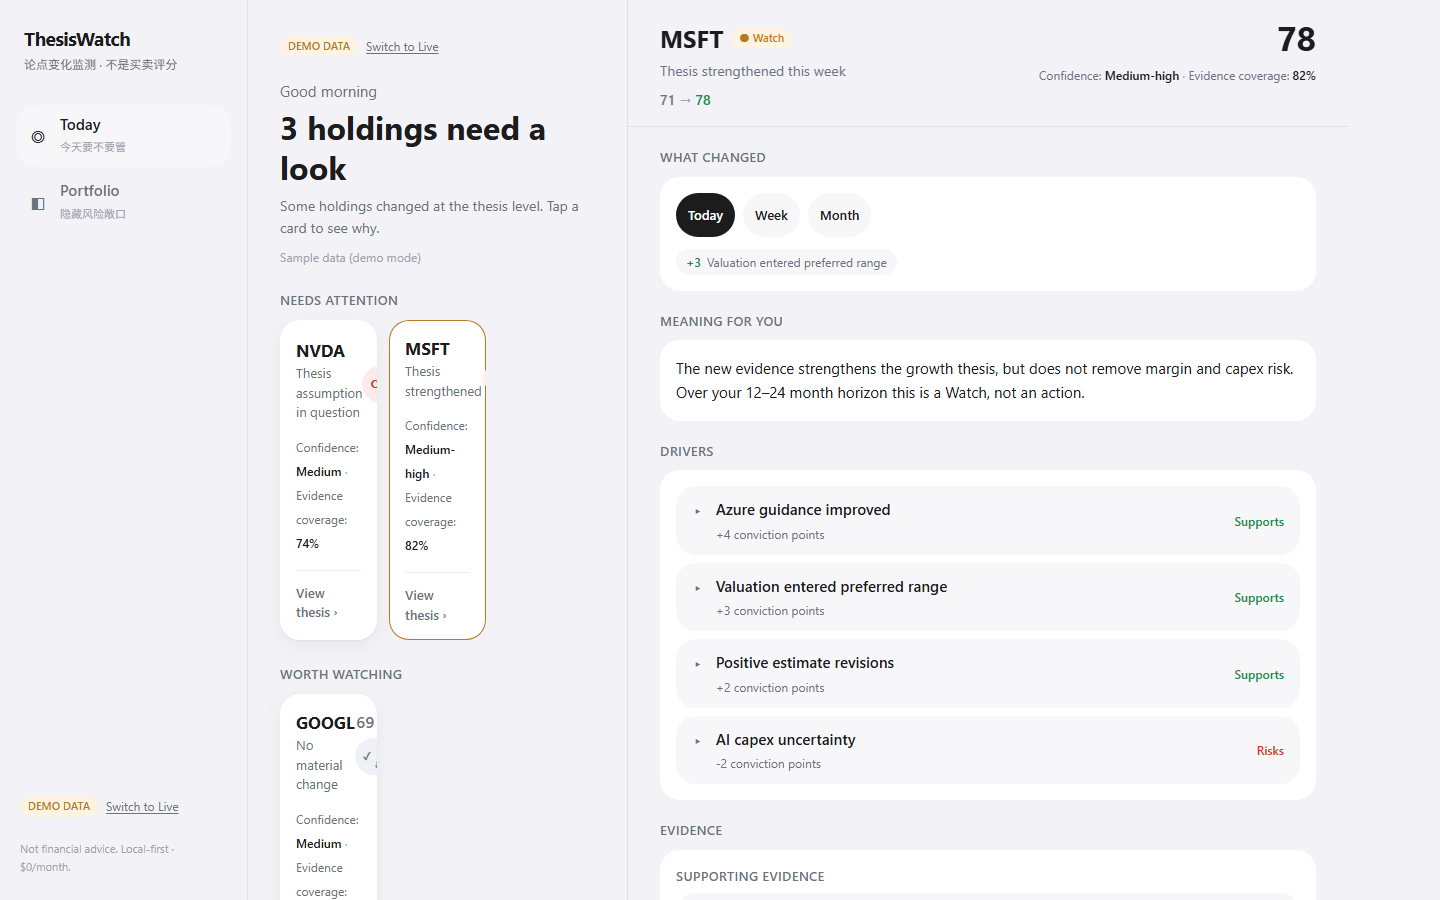
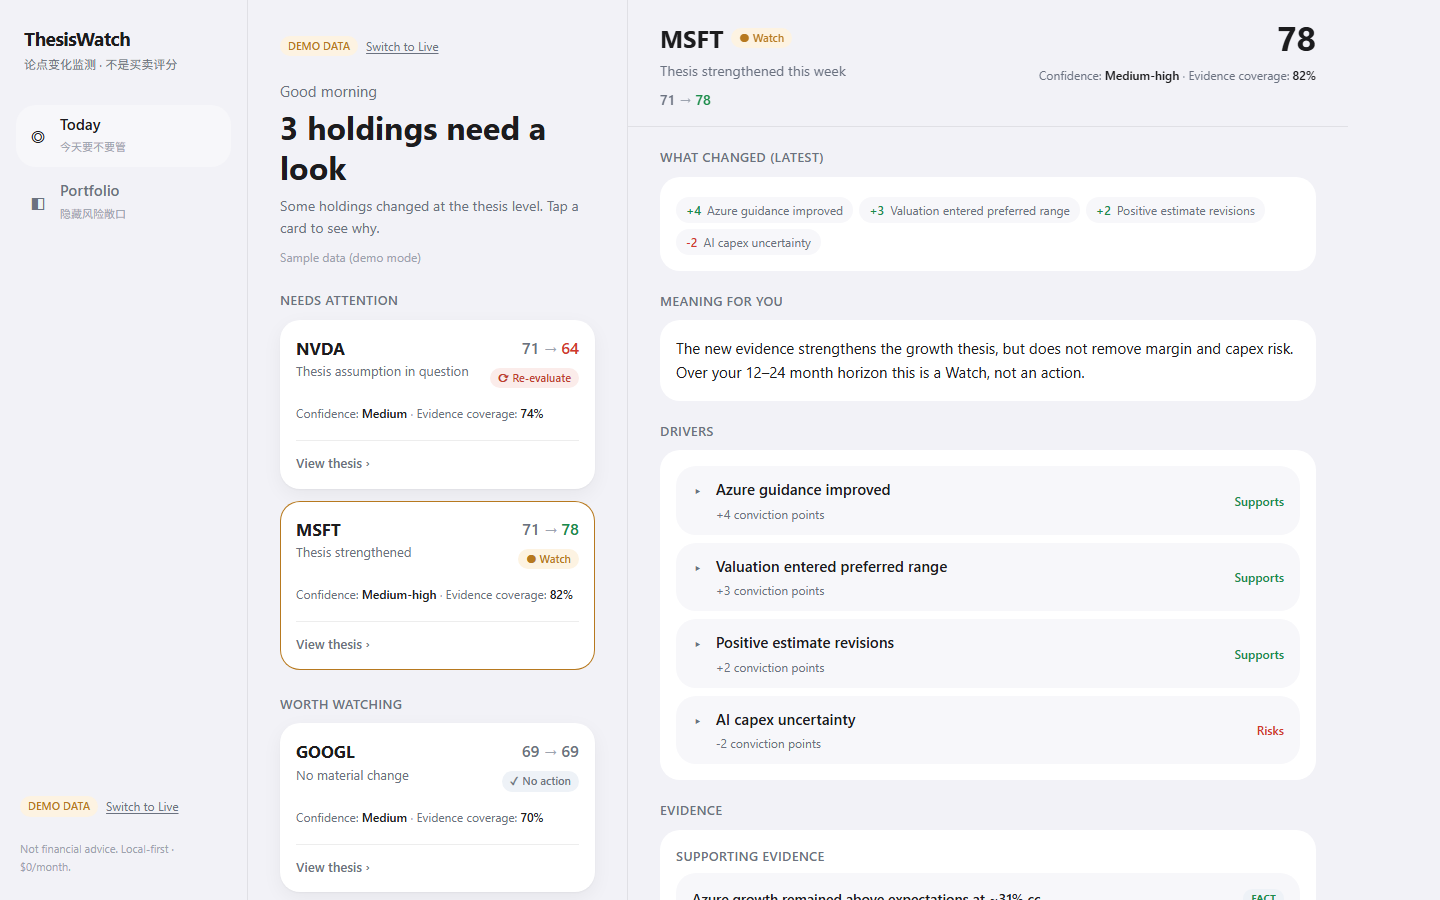
Fix thesis UX honesty and responsive mode behavior

diff --git a/app/src/screens/ThesisDetail.tsx b/app/src/screens/ThesisDetail.tsx
@@ -7,13 +7,6 @@ type Load =
   | { status: "loading" }
   | { status: "done"; thesisEnv: ApiEnvelope<StockThesis>; whyEnv: ApiEnvelope<WhyChanged> };
 
-type Period = "d1" | "w1" | "m1";
-
-const PERIODS: Array<{ id: Period; label: string }> = [
-  { id: "d1", label: "Today" },
-  { id: "w1", label: "Week" },
-  { id: "m1", label: "Month" },
-];
 
 export function ThesisDetail({
   ticker,
@@ -24,7 +17,6 @@ export function ThesisDetail({
   prevConviction?: number;
   onBack: () => void;
 }) {
-  const [period, setPeriod] = useState<Period>("d1");
   const [expandedClaimIds, setExpandedClaimIds] = useState<string[]>([]);
   const [load, setLoad] = useState<Load>({ status: "loading" });
   const [reloadKey, setReloadKey] = useState(0);
@@ -115,29 +107,14 @@ export function ThesisDetail({
           </div>
         )}
 
-        <Section title="WHAT CHANGED">
-          <div className="flex gap-2 flex-wrap">
-            {PERIODS.map((p) => (
-              <button
-                key={p.id}
-                onClick={() => setPeriod(p.id)}
-                className="rounded-chip px-3 py-2 text-[13px] font-medium min-h-[44px]"
-                style={{
-                  background: period === p.id ? "var(--text)" : "var(--surface-2)",
-                  color: period === p.id ? "var(--surface)" : "var(--text)",
-                }}
-              >
-                {p.label}
-              </button>
-            ))}
-          </div>
-          <div className="mt-3 flex flex-wrap gap-1.5">
-            {thesis.whatChanged[period].length > 0 ? (
-              thesis.whatChanged[period].map((driver) => (
-                <DriverChip key={`${period}-${driver.label}`} label={driver.label} points={driver.points} sign={driver.sign} />
+        <Section title="WHAT CHANGED (LATEST)">
+          <div className="mt-1 flex flex-wrap gap-1.5">
+            {thesis.whatChanged.length > 0 ? (
+              thesis.whatChanged.map((driver) => (
+                <DriverChip key={driver.label} label={driver.label} points={driver.points} sign={driver.sign} />
               ))
             ) : (
-              <p className="text-[14px] text-secondary">No material drivers for this period.</p>
+              <p className="text-[14px] text-secondary">No material drivers available.</p>
             )}
           </div>
         </Section>
@@ -310,7 +287,7 @@ function EvidenceItem({ e, compact = false }: { e: Evidence; compact?: boolean }
           <span>{e.sourceName}</span>
         )}
         <span className="text-tertiary"> · </span>
-        {fmtDate(e.observedAt)}
+        {fmtDate(e.observedAt, "Observed: unknown")}
       </div>
       <p className="mt-2 text-[13px] leading-relaxed">
         <span className="text-secondary">Interpretation: </span>
@@ -407,6 +384,9 @@ function UnavailableState({
   );
 }
 
-function fmtDate(iso: string): string {
-  return new Date(iso).toLocaleDateString("en-US", { month: "short", day: "numeric", year: "numeric" });
+function fmtDate(iso: string | null | undefined, fallback = "unknown"): string {
+  if (!iso) return fallback;
+  const dt = new Date(iso);
+  if (Number.isNaN(dt.getTime())) return fallback;
+  return dt.toLocaleDateString("en-US", { month: "short", day: "numeric", year: "numeric" });
 }

diff --git a/app/src/screens/PortfolioScreen.tsx b/app/src/screens/PortfolioScreen.tsx
@@ -1,5 +1,6 @@
 import { useEffect, useState } from "react";
 import { fetchExposures } from "../data/api";
+import { getMode, setMode, type UiMode } from "../data/mode";
 import type { ExposureLevel, PortfolioExposure } from "../types";
 
 const LEVEL_META: Record<ExposureLevel, { label: string; fg: string; bg: string; w: string }> = {
@@ -11,6 +12,8 @@ const LEVEL_META: Record<ExposureLevel, { label: string; fg: string; bg: string;
 export function PortfolioScreen() {
   const [exposures, setExposures] = useState<PortfolioExposure[] | null>(null);
   const [open, setOpen] = useState<string | null>(null);
+  const mode = getMode();
+  const isDemo = mode === "demo";
 
   useEffect(() => {
     let live = true;
@@ -24,6 +27,27 @@ export function PortfolioScreen() {
 
   return (
     <div className="px-5 lg:px-8 pt-6 pb-12">
+      <div className="flex items-center gap-2 mb-3">
+        <span
+          className="rounded-chip px-2 py-0.5 text-[11px] font-semibold"
+          style={{
+            background: isDemo ? "var(--watch-bg)" : "var(--calm-bg)",
+            color: isDemo ? "var(--watch)" : "var(--neutral)",
+          }}
+        >
+          {isDemo ? "DEMO DATA" : "LIVE"}
+        </span>
+        <button
+          onClick={() => {
+            const next: UiMode = isDemo ? "live" : "demo";
+            setMode(next);
+            window.location.reload();
+          }}
+          className="text-[12px] text-secondary underline underline-offset-2 min-h-[44px]"
+        >
+          {isDemo ? "Switch to Live" : "Switch to Demo"}
+        </button>
+      </div>
       <h1 className="text-[26px] lg:text-[32px] font-bold">Portfolio</h1>
       <p className="text-secondary text-[14px] mt-1 leading-relaxed">
         Looks diversified — but what shared risks are you actually betting on?

diff --git a/app/src/types.ts b/app/src/types.ts
@@ -112,7 +112,7 @@ export interface Holding {
   /** Portfolio weight, bounded to [0, 100]. */
   weightPct: number;
   /** ISO 8601 timestamp for the latest price observation. */
-  priceObservedAt: string;
+  priceObservedAt: string | null;
   /** State of the data used to render this holding. */
   dataState: DataState;
   /** Current user presentation state for this dated card. */
@@ -144,7 +144,7 @@ export interface WhyChanged {
   meaningForYou: string;
   status: ThesisStatus;
   /** ISO 8601 timestamp at which the explanation was generated. */
-  asOf: string;
+  asOf: string | null;
   dataState: DataState;
 }
 
@@ -158,9 +158,9 @@ export interface Evidence {
   /** Canonical source location when one is available. */
   sourceUrl?: string;
   /** ISO 8601 time the underlying event/value was observed. */
-  observedAt: string;
+  observedAt: string | null;
   /** ISO 8601 time AlphaWatch retrieved the item. */
-  fetchedAt: string;
+  fetchedAt: string | null;
   freshness: EvidenceFreshness;
   /** Explicit thesis meaning, visually separated from the source claim. */
   interpretation: string;
@@ -221,11 +221,7 @@ export interface StockThesis {
   /** Usable evidence coverage, bounded integer [0, 100]. */
   coveragePct: number;
   /** Conviction changes over one day, one week, and one month. */
-  whatChanged: {
-    d1: ConvictionDriver[];
-    w1: ConvictionDriver[];
-    m1: ConvictionDriver[];
-  };
+  whatChanged: ConvictionDriver[];
   currentThesis: ThesisClaim[];
   supporting: Evidence[];
   risks: Evidence[];
@@ -239,7 +235,7 @@ export interface StockThesis {
   horizonMonths: number;
   dataState: DataState;
   /** ISO 8601 timestamp for this thesis snapshot. */
-  asOf: string;
+  asOf: string | null;
 }
 
 /** Current exposure to a portfolio-level factor. */

diff --git a/app/src/data/mock.ts b/app/src/data/mock.ts
@@ -148,15 +148,7 @@ export const thesisByTicker: Record<string, StockThesis> = {
     ticker: "MSFT", status: "watch", oneLiner: "Thesis strengthened this week", conviction: 78,
     confidence: "Medium-high", coveragePct: 82, horizonMonths: 18, dataState: "ok",
     asOf: "2026-07-24T19:52:00Z",
-    whatChanged: {
-      d1: [{ label: "Valuation entered preferred range", points: 3, sign: "positive" }],
-      w1: whyChangedByTicker.MSFT.drivers,
-      m1: [
-        { label: "Azure guidance improved", points: 4, sign: "positive" },
-        { label: "Estimate revisions turned positive", points: 3, sign: "positive" },
-        { label: "AI capex uncertainty", points: -2, sign: "negative" },
-      ],
-    },
+    whatChanged: whyChangedByTicker.MSFT.drivers,
     currentThesis: [
       { id: "msft-cloud", text: "AI demand supports durable double-digit cloud growth." },
       { id: "msft-val", text: "Reasonable valuation for the quality and durability of earnings." },

diff --git a/app/src/screens/TodayScreen.tsx b/app/src/screens/TodayScreen.tsx
@@ -38,6 +38,7 @@ export function TodayScreen({
   const switchMode = (m: UiMode) => {
     setMode(m);
     setModeState(m);
+    window.location.reload();
   };
 
   return (
@@ -211,7 +212,7 @@ function Section({ title, children }: { title: string; children: React.ReactNode
   return (
     <div className="mt-6">
       <h2 className="text-[13px] font-semibold text-secondary uppercase tracking-wide mb-2.5">{title}</h2>
-      <div className="grid grid-cols-1 md:grid-cols-2 xl:grid-cols-3 gap-3">{children}</div>
+      <div className="grid grid-cols-1 md:grid-cols-2 xl:grid-cols-1 gap-3">{children}</div>
     </div>
   );
 }

diff --git a/app/e2e/smoke.spec.ts b/app/e2e/smoke.spec.ts
@@ -42,6 +42,8 @@ test.describe("Live mode unavailable state", () => {
     await expect(page.locator("text=unavailable").first()).toBeVisible({ timeout: 15000 });
     const unavailableCount = await page.locator("text=unavailable").count();
     expect(unavailableCount).toBeGreaterThan(0);
+    await expect(page.locator("text=MSFT").first()).toHaveCount(0);
+    await expect(page.locator("text=Microsoft").first()).toHaveCount(0);
   });
 });
 

diff --git a/app/src/screens/StockThesisScreen.tsx b/app/src/screens/StockThesisScreen.tsx
@@ -53,9 +53,7 @@ export function StockThesisScreen({
 
       <div className="px-5">
         <Block title="What changed">
-          <TimeRow label="Today" drivers={t.whatChanged.d1} />
-          <TimeRow label="This week" drivers={t.whatChanged.w1} />
-          <TimeRow label="This month" drivers={t.whatChanged.m1} />
+          <TimeRow label="Latest" drivers={t.whatChanged} />
         </Block>
 
         <Block title="Current thesis">
